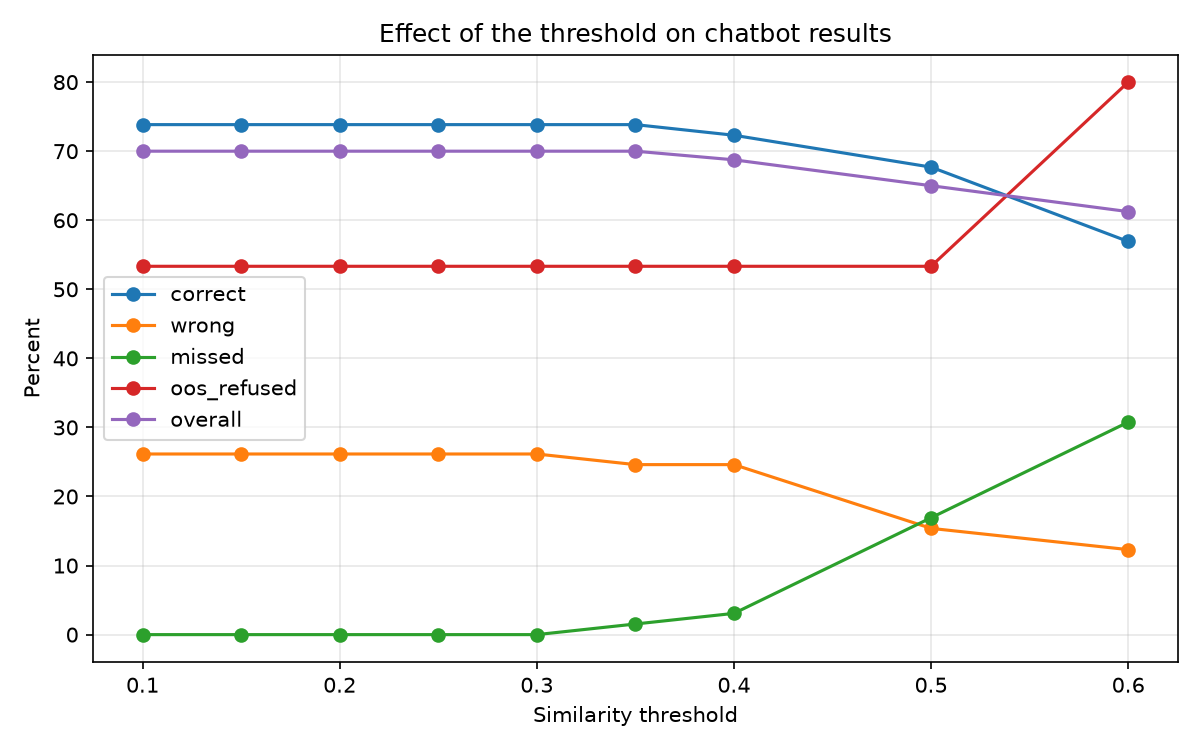
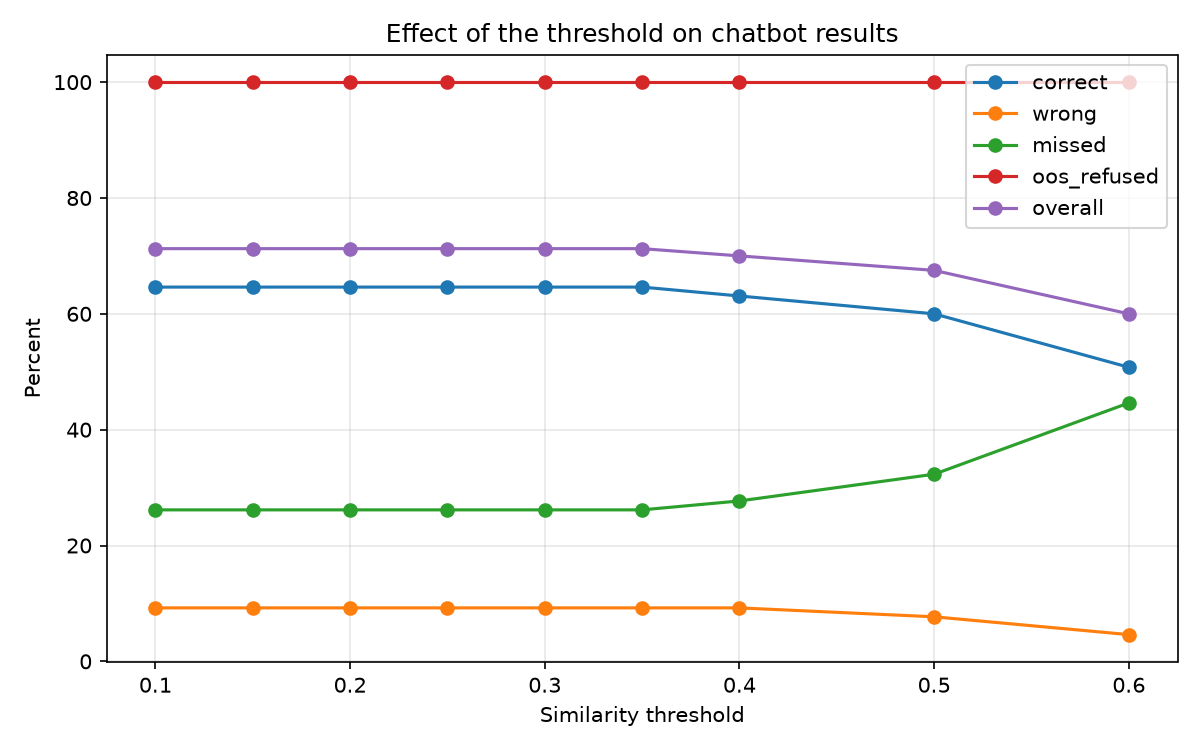
Stage 6b: apply final tuned settings (coverage 0.6, strict codes)

diff --git a/src/config.py b/src/config.py
@@ -34,11 +34,11 @@ USE_BIGRAMS = False
 
 # Share of the user's words that must exist in the FAQ vocabulary (0 = off).
 # Stops off-topic questions that contain only one familiar word.
-MIN_COVERAGE = 0.0
+MIN_COVERAGE = 0.6
 
 # The best FAQ must beat the second-best by at least this much (0 = off).
 # Stops the bot guessing when two FAQs look almost equally good.
-MIN_MARGIN = 0.0
+MIN_MARGIN = 0.05
 
 # True = refuse whenever the user types a status code that no FAQ covers.
-STRICT_CODES = False
+STRICT_CODES = True
